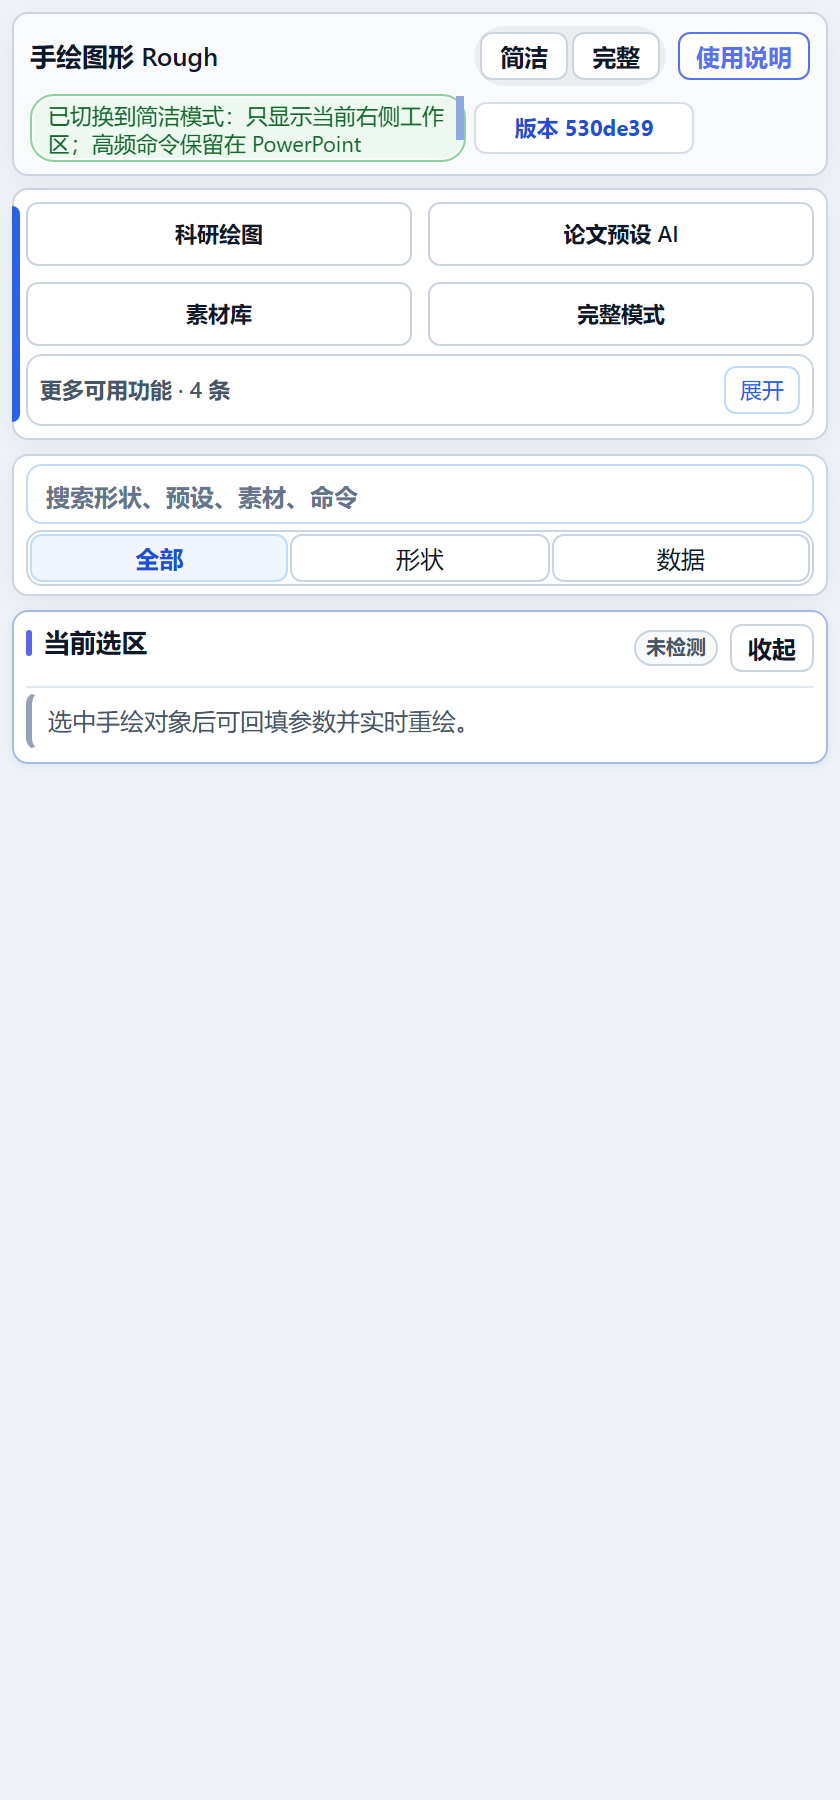
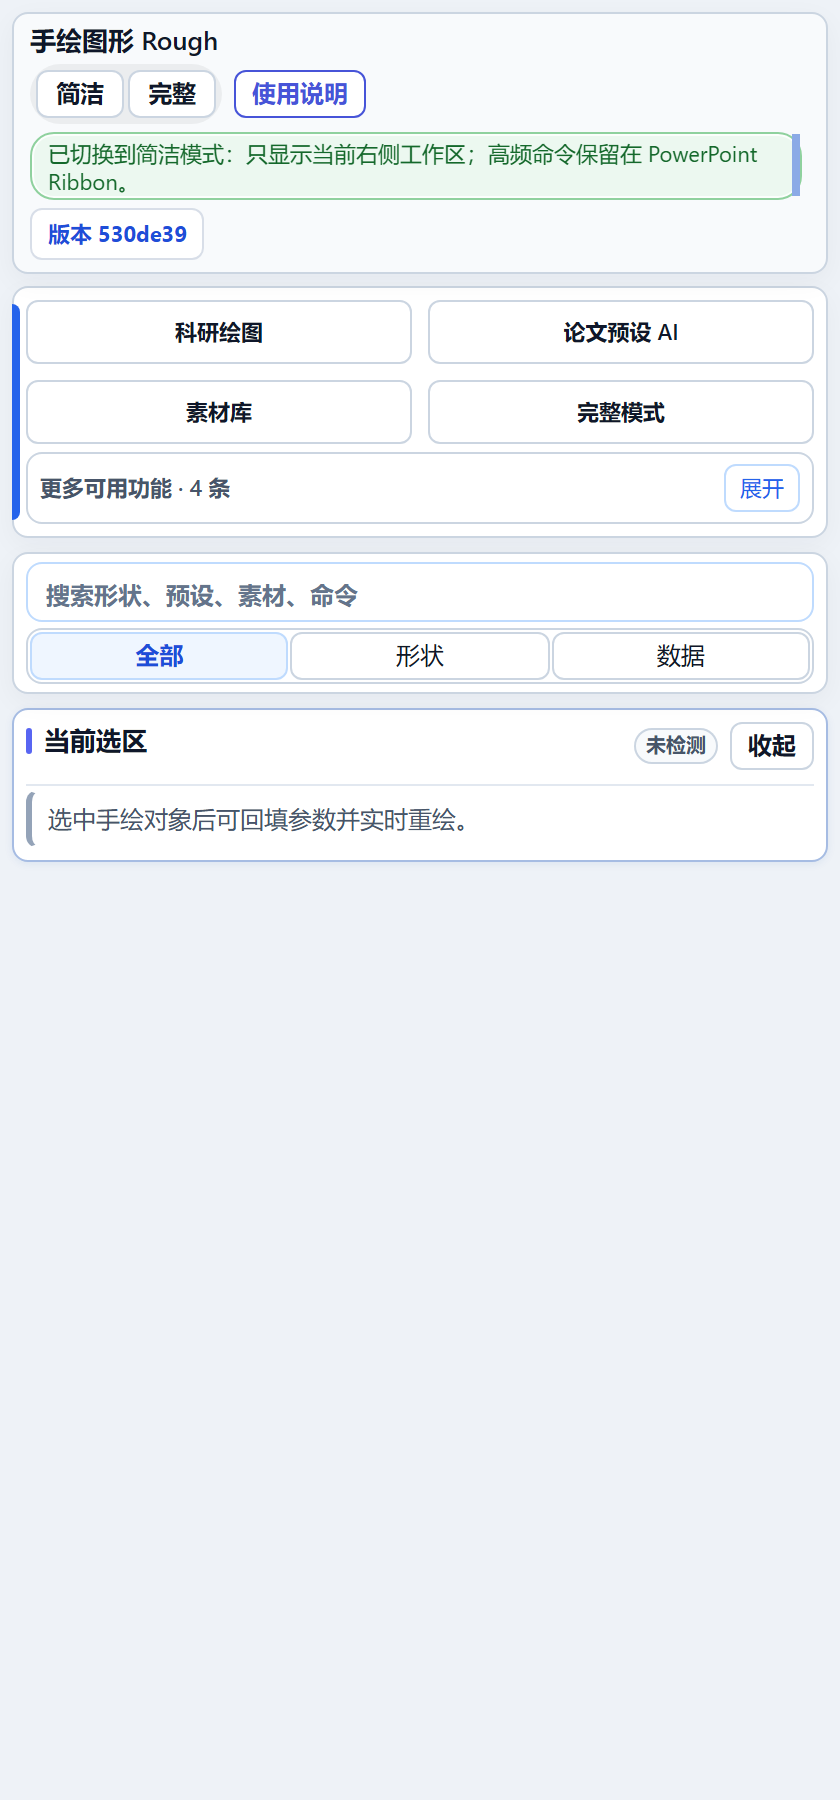
docs: refresh usage guide screenshots

Changed region(s): [[0.0, 0.0, 0.9905, 0.4667]]

diff --git a/docs/target-mode-plan.md b/docs/target-mode-plan.md
@@ -94,6 +94,7 @@
 6. B590（已完成）：按维护规则压缩目标计划历史。
 7. B591（已完成）：守卫说明页返回滚动的会话存储读写，避免存储禁用时阻断入口。
 8. B592（已完成）：同步项目约束中的 SimpleExperiment 端点和轻量结果路径，消除冻结协议文档漂移。
+9. B593（已完成）：刷新使用说明截图，使其与低对比修复和当前任务窗格状态一致。
 
 ### 下一批次方向
 
@@ -118,6 +119,8 @@
 - B591：会话存储读取、写入和删除必须经过守卫助手；写入失败时“使用说明”仍必须向宿主发送打开请求，浏览器回退也不得中断。
 - B591 验证与提交：真实浏览器模拟 `sessionStorage.setItem` 抛出后验证宿主收到 `openUsageGuide`、页面保持当前地址；说明窗口合同、资源守卫和任务窗格交互通过。代码与本批计划同提交。
 - B592：项目约束必须与 B581 后的实际协议一致；新端点、旧兼容端点和当前/旧项目轻量结果路径都要写明，避免后续按旧契约误报漂移。
+- B593：使用说明 PNG 必须随界面结构、配色和状态变化重新生成；截图内容要与对应章节的入口和工作区一致。
+- B593 验证与提交：真实浏览器重新捕获四张界面截图；说明窗口合同通过。截图与本批计划同提交。
 - B592 验证与提交：外部插件兼容、自动化合同、源码约束和编码验证通过。代码与本批计划同提交。
 
 ## 关键里程碑
